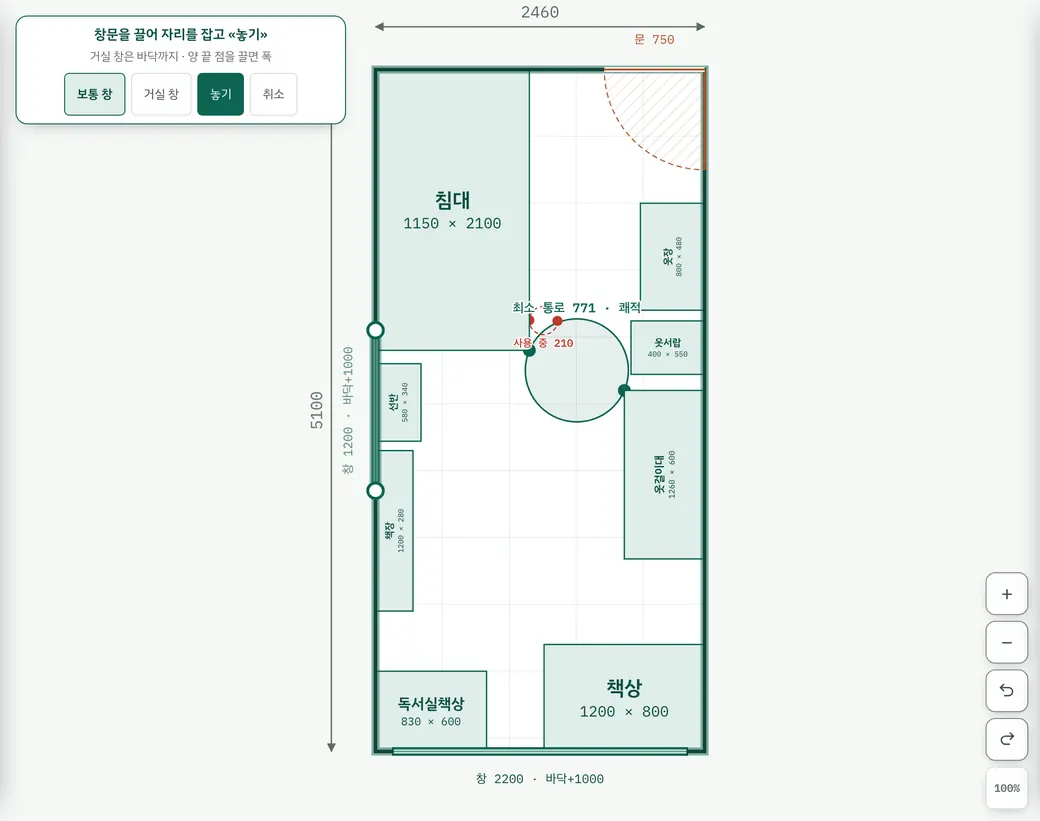
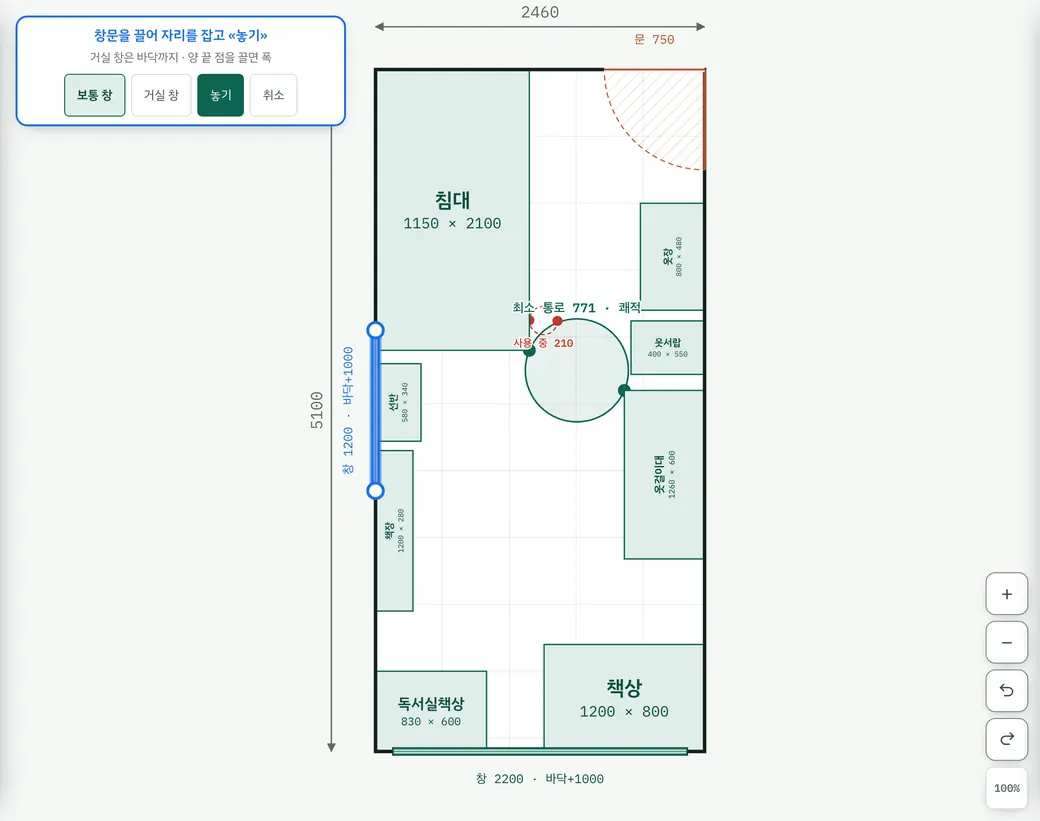
p53 — 놓기 전 미리보기는 파란색 · 콘센트 놓을 벽은 파란 띠·흐르는 점선 · t44 한도 500KB
갤럭시 피드백: 놓기 전 문·창문이 처음에 잘 안 보임 / 콘센트 놓을 벽 강조가 안 보임.
- 새 색 --preview(파랑, 어두운 화면용 따로) = «아직 놓지 않은 것» 전용
- 문·창문 미리보기: 옅게 하지 않고 파랑으로, 띠는 천천히 숨쉬기(움직임 줄이기 설정 존중), 손잡이·놓기 띠도 파랑
- 문·창문을 놓을 땐 초록 벽 강조를 뺌(미리보기 하나만 보이게)
- 콘센트: 벽 따라 얇은 파란 띠(바깥 14px~안 22px) + 흐르는 점선. 누르는 판정 범위는 그대로
- t44 크기 한도 420KB → 500KB(사용자 결정, 그림이 안에 들어갔는지는 그대로 검사)
- t51 에 색 확인 2항목, 사용법 그림 다시 찍음

diff --git a/index.html b/index.html
@@ -33,7 +33,7 @@
   --line:#D5DED9; --line-strong:#7A8D84;
   --accent:#0D6552; --accent-soft:#DFEDE8; --accent-ink:#0A4E3F;
   --measure:#AE4E24; --measure-soft:#F8E9E0;
-  --lock:#7A6A2E; --lock-soft:#F4EFDC;
+  --lock:#7A6A2E; --lock-soft:#F4EFDC; --preview:#1D6FE0; --preview-soft:#E3EEFF;
   --bad:#C0392B; --bad-soft:#FBE7E4;
   --tabh:58px; --crumbh:44px;
 }
@@ -44,7 +44,7 @@
     --line:#26332E; --line-strong:#3D4F48;
     --accent:#4CC3A3; --accent-soft:#12312A; --accent-ink:#7EDBC1;
     --measure:#E39366; --measure-soft:#2F2016;
-    --lock:#D2B764; --lock-soft:#2C2614;
+    --lock:#D2B764; --lock-soft:#2C2614; --preview:#6AA6FF; --preview-soft:#14233A;
     --bad:#F1705E; --bad-soft:#331915;
   }
 }
@@ -54,7 +54,7 @@
   --line:#26332E; --line-strong:#3D4F48;
   --accent:#4CC3A3; --accent-soft:#12312A; --accent-ink:#7EDBC1;
   --measure:#E39366; --measure-soft:#2F2016;
-  --lock:#D2B764; --lock-soft:#2C2614;
+  --lock:#D2B764; --lock-soft:#2C2614; --preview:#6AA6FF; --preview-soft:#14233A;
   --bad:#F1705E; --bad-soft:#331915;
 }
 
@@ -239,12 +239,17 @@ kbd{font-family:"IBM Plex Mono",monospace;font-size:10.5px;border:1px solid var(
    띠 자체는 누름을 통과시킨다(글자 위를 눌러도 그 아래 벽에 놓인다). 단추만 받는다 */
 .placebar{position:absolute;left:16px;top:16px;z-index:6;pointer-events:none;
   display:flex;flex-wrap:wrap;gap:6px;align-items:center;justify-content:center;
-  background:var(--surface);border:1.5px solid var(--accent);border-radius:12px;padding:8px 10px;
+  background:var(--surface);border:2px solid var(--preview);border-radius:12px;padding:8px 10px;
   box-shadow:0 6px 18px -10px rgba(0,0,0,.45);max-width:min(340px, calc(100% - 32px))}
-.placebar #pbText{flex-basis:100%;text-align:center;font-weight:600;color:var(--accent-ink);font-size:14px}
+.placebar #pbText{flex-basis:100%;text-align:center;font-weight:600;color:var(--preview);font-size:14px}
 .placebar #pbHint{flex-basis:100%;text-align:center;color:var(--muted);font-size:12px;margin-top:-4px}
 .placebar #pbHint.bad{color:var(--bad);font-weight:600}
 #plan .ophandle{cursor:ew-resize}
+#plan .ghostband:not(.clash){animation:ghostPulse 1.1s ease-in-out infinite alternate}
+@keyframes ghostPulse{from{stroke-opacity:.25}to{stroke-opacity:.6}}
+#plan .placewall{animation:placeMarch 1.2s linear infinite}
+@keyframes placeMarch{to{stroke-dashoffset:-210}}
+@media(prefers-reduced-motion:reduce){#plan .ghostband,#plan .placewall{animation:none}}
 .placebar .btn{min-height:44px;justify-content:center;pointer-events:auto;padding:0 12px}
 .pbwin{display:flex;gap:6px}
 .pbwin .btn[aria-pressed="true"]{background:var(--accent-soft);border-color:var(--accent);color:var(--accent-ink);font-weight:600}
@@ -1657,7 +1662,7 @@ const ROOM_PRESETS = [
 ];
 
 /* 화면에 찍히는 판 번호. 실기에서 «고쳤는데 그대로다» 를 가르는 유일한 단서다. */
-const BUILD = "2026-10-02 · p52";
+const BUILD = "2026-10-02 · p53";
 
 const KEYOPT = "room-planner/opt";
 let opt = { score:true, walk:true, unit:"mm", guide:0 };
@@ -2324,9 +2329,17 @@ function drawRoom(){
   svg.appendChild(el("rect", { x:0, y:0, width:r.w, height:r.d, fill:"none",
     stroke:"var(--ink)", "stroke-width":26 }));
 
-  /* p51 — 놓는 중엔 네 벽을 초록으로 — «여기를 누르라» 가 글보다 먼저 보인다 */
-  if (placing) svg.appendChild(el("rect", { class:"placewall", x:0, y:0, width:r.w, height:r.d, fill:"none",
-    stroke:"var(--accent)", "stroke-width":Math.max(60, pxMm(7)), "stroke-opacity":.5, "pointer-events":"none" }));
+  /* p53 — 콘센트를 놓는 중엔 벽을 따라 얇은 파란 띠(바깥 14px ~ 안쪽 22px)를 칠하고 벽선을 따라 점선이 흐른다.
+     누르면 인정되는 범위(placeOpening: 바깥 40px ~ 안쪽 60px)를 그대로 칠했더니 좁은 방은 거의 다 파래져 «벽» 이 안 보였다. 초록 벽 강조(p51)는 초록이 많은 도면에서 안 보였다(갤럭시). 문·창문은 미리보기 하나만 눈에 띄게 강조를 뺐다 */
+  if (placing === "out"){
+    const zo = pxMm(14), zi = pxMm(22);
+    const outer = `M${-zo},${-zo}H${r.w + zo}V${r.d + zo}H${-zo}Z`;
+    const inner = (r.w > 2 * zi && r.d > 2 * zi) ? `M${zi},${zi}V${r.d - zi}H${r.w - zi}V${zi}Z` : "";
+    svg.appendChild(el("path", { class:"placezone", d:outer + inner, "fill-rule":"evenodd",
+      fill:"var(--preview)", "fill-opacity":.22, "pointer-events":"none" }));
+    svg.appendChild(el("rect", { class:"placewall", x:0, y:0, width:r.w, height:r.d, fill:"none",
+      stroke:"var(--preview)", "stroke-width":Math.max(36, pxMm(4)), "stroke-dasharray":"120 90", "pointer-events":"none" }));
+  }
   /* 벽선을 그린 뒤라야 개구부가 벽을 끊어 보인다 · p51 — 한 묶음(#opLayer)이라 끄는 동안 이것만 다시 그린다 */
   const opG = el("g", { id:"opLayer" }); svg.appendChild(opG); fillOpLayer(opG);
   asDyn(drawClearance);
@@ -3577,10 +3590,10 @@ function drawOpenings(){
     const A = wallAxis(r, D.wall);
     const p0 = wallPt(A, D.x0), p1 = wallPt(A, D.x0 + D.w);
     const S = doorSector(r, D);
-    const col = D.__g ? "var(--accent-ink)" : hit.has(D.id) ? "var(--bad)" : "var(--measure)";
+    const col = D.__g ? "var(--preview)" : hit.has(D.id) ? "var(--bad)" : "var(--measure)";
 
     if (S){
-      svg.appendChild(el("path", { d:sectorPath(S), fill:"url(#hz)",
+      svg.appendChild(el("path", { d:sectorPath(S), fill: D.__g ? "var(--preview-soft)" : "url(#hz)",
         stroke:col, "stroke-width":8, "stroke-dasharray":"40 26" }));
       /* 문짝 — 열린 위치에 실선으로 */
       svg.appendChild(el("line", { x1:S.x, y1:S.y,
@@ -3610,6 +3623,7 @@ function drawOpenings(){
      그래서 창에도 창다운 그림을 준다: 방 안으로 퍼지는 «빛». 뜻도 맞고 눈에도 띈다. */
   for (const W of withGhost(r.windows, "win")){
     const g0 = svg.childNodes.length;
+    const wc = W.__g ? "var(--preview)" : "var(--accent)", wci = W.__g ? "var(--preview)" : "var(--accent-ink)";   /* p53 — 미리보기는 파랑 */
     const A = wallAxis(r, W.wall);
     const p0 = wallPt(A, W.x0), p1 = wallPt(A, W.x0 + W.w);
     const mx = (p0.x + p1.x) / 2, my = (p0.y + p1.y) / 2;
@@ -3632,21 +3646,21 @@ function drawOpenings(){
     const b0 = band(-24), b1 = band(24);
     svg.appendChild(el("polygon", {
       points:`${b0[0]},${b0[1]} ${b0[2]},${b0[3]} ${b1[2]},${b1[3]} ${b1[0]},${b1[1]}`,
-      fill:"var(--accent)", "fill-opacity":.22, stroke:"none" }));
+      fill:wc, "fill-opacity":.22, stroke:"none" }));
     for (const k of [-24, 24]){
       const q = band(k);
       svg.appendChild(el("line", { x1:q[0], y1:q[1], x2:q[2], y2:q[3],
-        stroke:"var(--accent)", "stroke-width":17 }));
+        stroke:wc, "stroke-width":17 }));
     }
     svg.appendChild(el("line", { x1:p0.x, y1:p0.y, x2:p1.x, y2:p1.y,
-      stroke:"var(--accent)", "stroke-width":9, "stroke-opacity":.6 }));
+      stroke:wc, "stroke-width":9, "stroke-opacity":.6 }));
     /* 양 끝 마구리 — 창이 «어디서 어디까지» 인지가 문보다 훨씬 덜 분명했다 */
     for (const q of [p0, p1])
       svg.appendChild(el("line", { x1:q.x - A.nx*32, y1:q.y - A.ny*32,
         x2:q.x + A.nx*32, y2:q.y + A.ny*32,
-        stroke:"var(--accent-ink)", "stroke-width":13 }));
+        stroke:wci, "stroke-width":13 }));
 
-    labelOutside(A, mx, my, "var(--accent-ink)",
+    labelOutside(A, mx, my, wci,
       W.sill === 0 ? `창 ${fmt(W.w)} · 바닥까지` : `창 ${fmt(W.w)} · 바닥+${fmt(W.sill)}`);
     opDone(r, A, W, "win", g0);
   }
@@ -3691,7 +3705,7 @@ function opHit(r, A, O, kind){
 const withGhost = (list, kind) => (list || []).concat(ghost && ghost.kind === kind ? [ghost] : []);
 function opDone(r, A, O, kind, g0){
   if (O.__g){
-    const g = el("g", { class:"ghost", opacity:.7, "pointer-events":"none" });
+    const g = el("g", { class:"ghost", "pointer-events":"none" });          /* p53 — 옅게(.7) 하지 않는다. 색으로 구분한다 */
     g.replaceChildren(...[...svg.childNodes].slice(g0));
     svg.appendChild(g);
     /* 다른 문·창(콘센트↔창은 허용)과 겹치면 빨간 띠 + 안내 — p51 의 «빈 틈으로 밀기» 대신 보여 주고 고르게 한다 */
@@ -3701,7 +3715,7 @@ function opDone(r, A, O, kind, g0){
       hint.textContent = clash ? "다른 문·창과 겹쳐요 — 끌어서 옮겨 주세요"
         : kind === "win" ? "거실 창은 바닥까지 · 양 끝 점을 끌면 폭" : "양 끝 점을 끌면 폭이 바뀌어요"; }
     const q0 = wallPt(A, O.x0), q1 = wallPt(A, O.x0 + O.w);              /* 옅기만 하면 안 보인다 — 고른 것처럼 초록 띠 */
-    svg.appendChild(el("line", { class:"opsel" + (clash ? " clash" : ""), x1:q0.x, y1:q0.y, x2:q1.x, y2:q1.y, stroke: clash ? "var(--bad)" : "var(--accent)",
+    svg.appendChild(el("line", { class:"opsel ghostband" + (clash ? " clash" : ""), x1:q0.x, y1:q0.y, x2:q1.x, y2:q1.y, stroke: clash ? "var(--bad)" : "var(--preview)",
       "stroke-width":Math.max(90, pxMm(11)), "stroke-opacity":.4, "stroke-linecap":"round", "pointer-events":"none" }));
     opHandles(A, O, "ghost");
     return;
@@ -3714,11 +3728,11 @@ function opDone(r, A, O, kind, g0){
 let opHandleQ = [];          /* 손잡이는 drawOpenings 맨 끝에 — 뒤에 그려진 콘센트 판정선이 손잡이를 덮었다(자가 감수) */
 function opHandles(A, O, key){ opHandleQ.push(() => opHandlesNow(A, O, key)); }
 function opHandlesNow(A, O, key){
-  const off = pxMm(14), rr = pxMm(18);
+  const off = pxMm(14), rr = pxMm(18), hc = key === "ghost" ? "var(--preview)" : "var(--accent)";
   for (const [end, t, s] of [["a", O.x0, -1], ["b", O.x0 + O.w, 1]]){
     const p = wallPt(A, t), q = wallPt(A, t + s * off);
     svg.appendChild(el("circle", { class:"ophandle-dot", cx:p.x, cy:p.y, r:pxMm(8),
-      fill:"var(--surface)", stroke:"var(--accent)", "stroke-width":pxMm(3), "pointer-events":"none" }));
+      fill:"var(--surface)", stroke:hc, "stroke-width":pxMm(3), "pointer-events":"none" }));
     svg.appendChild(el("circle", { class:"ophandle", "data-op":key, "data-end":end, cx:q.x, cy:q.y, r:rr,
       fill:"transparent", "pointer-events":"all" }));
   }

diff --git a/tests/t51.js b/tests/t51.js
@@ -39,6 +39,8 @@ const FILE = process.env.APP || WORK + '/app.html', APP = 'file://' + FILE;
       '추가 → 문: 숫자 창 없이 «문을 끌어 자리를 잡고 «놓기»»');
   chk(await p.$$eval('#plan .ghost', n => n.length) === 1 && await p.$$eval('#plan .ophandle', n => n.length) === 2 && (await room(p)).doors.length === 0,
       '반투명 문 미리보기 + 양 끝 손잡이 · 아직 저장 안 됨');
+  chk(await p.$$eval('#plan .ghost line, #plan .ghost path', ns => ns.some(n => n.getAttribute('stroke') === 'var(--preview)')) && !(await p.$('#plan .placezone')),
+      'p53 — 미리보기는 파란색(--preview) · 문을 놓을 땐 벽 띠 없음');
   await tapAt(p, g.X(2200), g.Y(0) + 4);
   chk((await room(p)).doors.length === 0, '벽을 눌러도 미리보기만 그리로 옮겨짐(저장 안 됨)');
   await tap(p, '#pbDoor [data-pd="swing"]');
@@ -71,6 +73,11 @@ const FILE = process.env.APP || WORK + '/app.html', APP = 'file://' + FILE;
   dd = (await room(p)).doors[0];
   chk(dd.swing === 'in' && dd.hinge !== h0, '«반대쪽» → 매달린 쪽만 바뀜');
   await tap(p, '#opbar [data-ob="hinge"]');
+
+  /* p53 — 콘센트를 놓는 중엔 벽을 따라 파란 띠 + 흐르는 점선 */
+  await tap(p, '#tabbar [data-tab="add"]'); await tap(p, '#apModal [data-ap="out"]');
+  chk(await p.$('#plan .placezone') && await p.$eval('#plan .placewall', n => n.getAttribute('stroke') === 'var(--preview)'), '콘센트 놓는 중: 벽 따라 파란 띠·점선');
+  await tap(p, '#pbCancel');
 
   /* 가장 가까운 벽 — 콘센트로 네 벽 */
   const walls = [];

diff --git a/sw.js b/sw.js
@@ -1,10 +1,10 @@
 /* 이걸 어디다 두지? — 서비스 워커 (p45, P3-3 홈 화면 앱·오프라인)
-   build.py 가 2026-10-02-p52 를 판 번호로 바꿔 sw.js 로 쓴다. 판이 바뀌면 이 파일이 바뀌어 브라우저가 새 워커를 받는다.
+   build.py 가 2026-10-02-p53 를 판 번호로 바꿔 sw.js 로 쓴다. 판이 바뀌면 이 파일이 바뀌어 브라우저가 새 워커를 받는다.
    ① 설치 때 앱·사용법 그림·아이콘을 캐시에 담는다 → 인터넷 없이도 열린다.
    ② 페이지(index.html)는 «인터넷 먼저» — 연결되면 늘 새 판, 끊기면 캐시. 그래서 «고쳤는데 그대로» 가 생기지 않는다.
    ③ 그 밖의 파일(그림·아이콘)은 캐시 먼저.
    ⚠ 방 데이터는 여기와 상관없다(localStorage). 캐시를 지워도 방은 남는다. */
-const CACHE = "rp-2026-10-02-p52";
+const CACHE = "rp-2026-10-02-p53";
 const CORE = ["./", "index.html", "manifest.json", "icon-180.png", "icon-192.png", "icon-512.png", "icon-512-maskable.png",
   "guide/01.webp", "guide/02.webp", "guide/03.webp", "guide/04.webp", "guide/05.webp", "guide/06.webp",
   "guide/07.webp", "guide/08.webp", "guide/09.webp", "guide/10.webp", "guide/11.webp"];

diff --git a/tests/t44.js b/tests/t44.js
@@ -9,7 +9,7 @@ const FILE = process.env.APP || WORK + '/app.html', APP = 'file://' + FILE;
   const html = fs.readFileSync(FILE, 'utf8');
   const files = fs.readdirSync(path.join(path.dirname(FILE), 'guide')).filter(f => /^\d\d\.webp$/.test(f));
   const inside = files.filter(f => html.includes(fs.readFileSync(path.join(path.dirname(FILE), 'guide', f)).toString('base64').slice(0, 200)));
-  chk(Buffer.byteLength(html) < 420000 && inside.length === 0, `완성본 420KB 미만 — 사용법 그림은 안에 없음(${inside.length})`);
+  chk(Buffer.byteLength(html) < 500000 && inside.length === 0, `완성본 500KB 미만 — 사용법 그림은 안에 없음(${inside.length})`);   // p53 — 420KB 에 닿아 올림(사용자 결정 2026-10-02). 뜻은 그대로: 그림이 다시 안에 들어오면 수백 KB 가 늘어 걸린다
   chk(files.length === 11, `guide/ 폴더 그림 ${files.length}장`);
 
   const c = await b.newContext({ viewport: { width: 1600, height: 900 } }); const p = await c.newPage();
